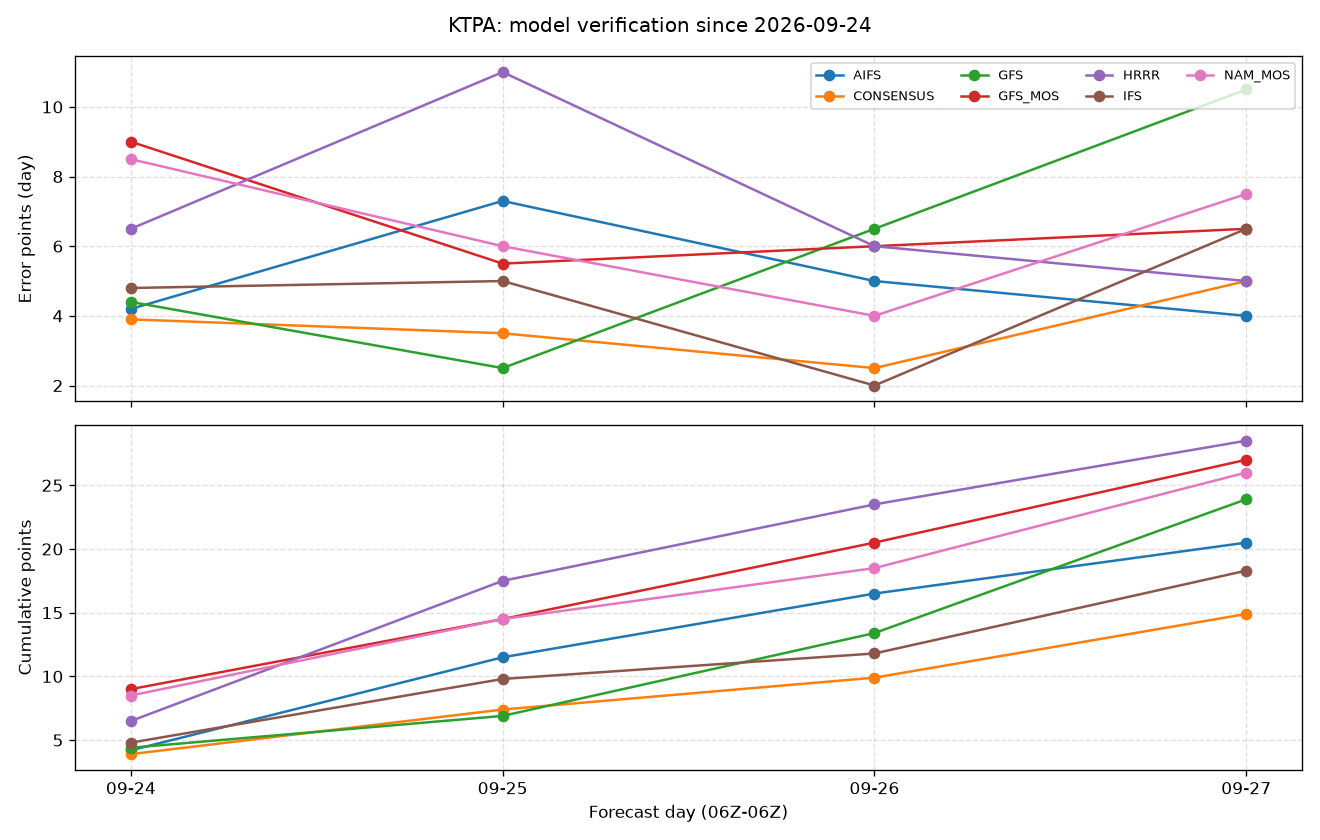
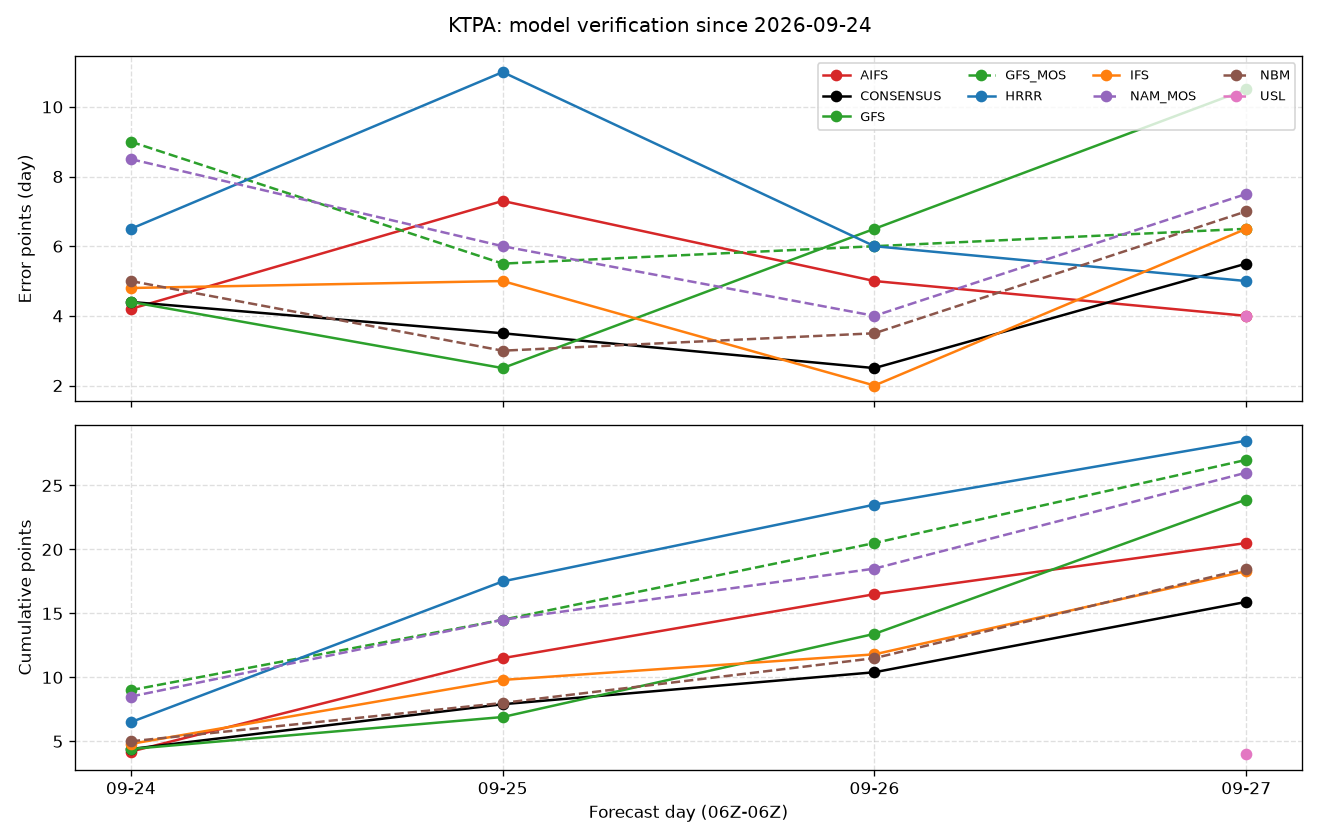
update wxchallenge: 2026-09-28T22:18:23+00:00

diff --git a/weather-forecasts/wxchallenge/index.html b/weather-forecasts/wxchallenge/index.html
@@ -158,7 +158,7 @@ function isDark(){
 
 const GROUPS = [
   { title: 'Grid models', rows: [['HRRR','HRRR'],['IFS','ECMWF IFS'],['GFS','GFS'],['AIFS','ECMWF AIFS']] },
-  { title: 'Statistical guidance', rows: [['GFS_MOS','GFS MOS'],['NAM_MOS','NAM MOS'],['NBM','NBM']] },
+  { title: 'Statistical / point guidance', rows: [['GFS_MOS','GFS MOS'],['NAM_MOS','NAM MOS'],['NBM','NBM'],['USL','USL']] },
   { title: 'Blend', rows: [['CONSENSUS','Consensus']] },
 ];
 const LABEL = Object.fromEntries(GROUPS.flatMap(g => g.rows));
